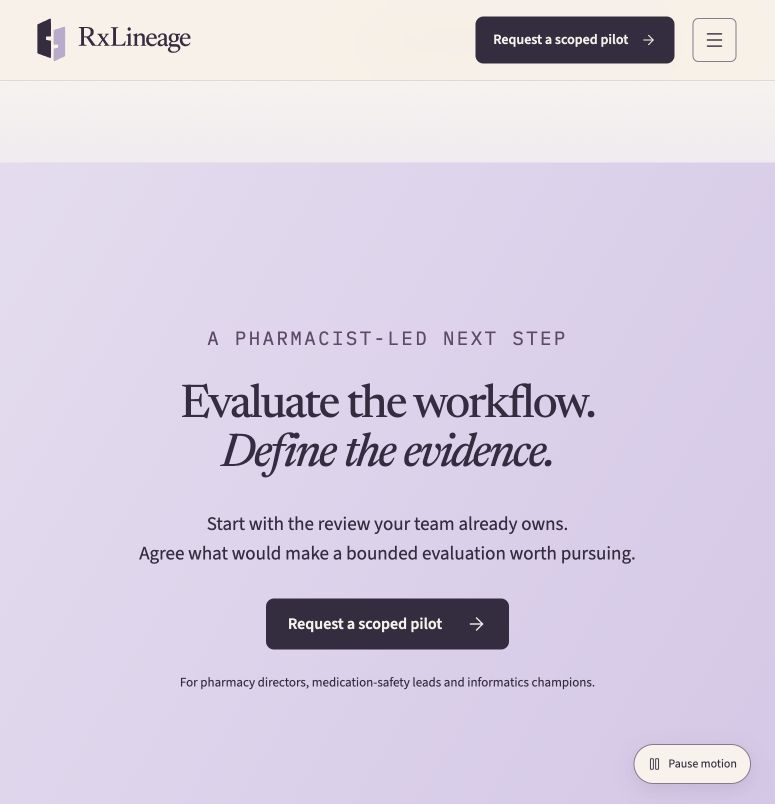
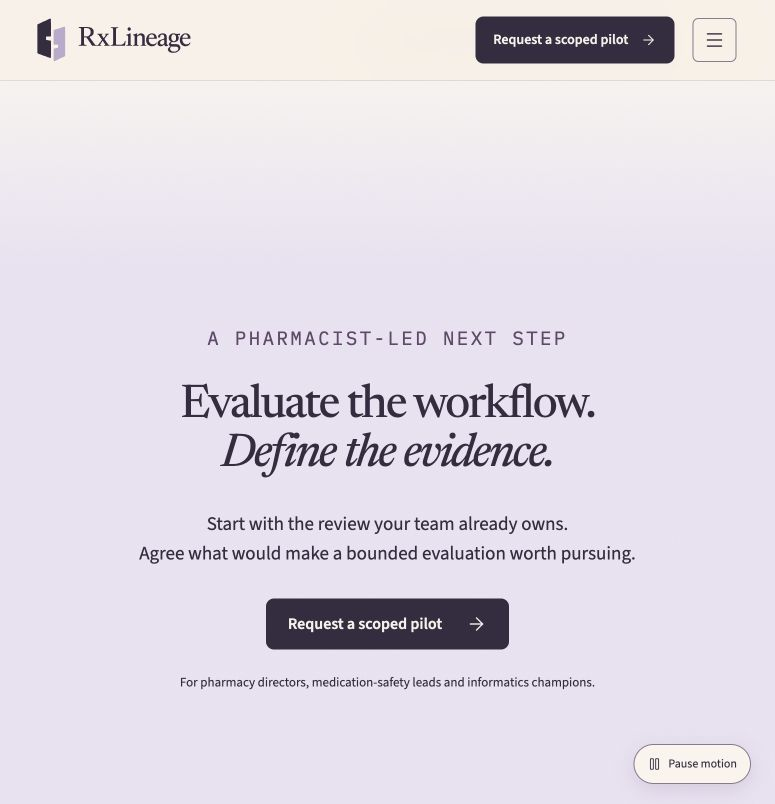
Update Site source

diff --git a/docs/refinement/README.md b/docs/refinement/README.md
@@ -12,4 +12,4 @@ Background revision: cleaner lavender and ivory fields replace the overlapping p
 
 QA: production build, TypeScript, prerender and automated reference checks passed. All 31 routes checked at 390px for headings, overflow and broken images; no failures. Homepage visually reviewed at 1440px, 775px and 390px. Verified pause/enable motion and complete static hero content. Checked computed rotation and removal of marked rings. Actual physical devices and full assistive-technology testing were not performed.
 
-Screenshots: hero-desktop.jpg, hero-tablet.jpg, hero-mobile.jpg, board-mobile.jpg, use-cases.jpg, closing.jpg. The closing capture preceded the final change from a section background to the continuous canvas.
+Screenshots: hero-desktop.jpg, hero-tablet.jpg, hero-mobile.jpg, board-mobile.jpg, use-cases.jpg, closing.jpg.
